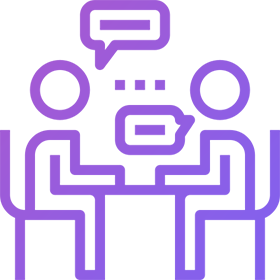
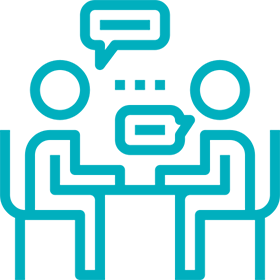
update data dan script

diff --git a/index.html b/index.html
@@ -167,12 +167,12 @@ https://templatemo.com/tm-535-softy-pinko
             <div class="row">
                 <div class="col-lg-12">
                     <div class="center-heading">
-                        <h2 class="section-title">Blog Entries</h2>
+                        <h2 class="section-title">My Project</h2>
                     </div>
                 </div>
                 <div class="offset-lg-3 col-lg-6">
                     <div class="center-text">
-                        <p>Integer molestie aliquam gravida. Nullam nec arcu finibus, imperdiet nulla vitae, placerat nibh. Cras maximus venenatis molestie.</p>
+                        <p>Berikut project yang telah saya kerjakan</p>
                     </div>
                 </div>
             </div>
@@ -182,48 +182,46 @@ https://templatemo.com/tm-535-softy-pinko
                 <div class="col-lg-4 col-md-6 col-sm-12">
                     <div class="blog-post-thumb">
                         <div class="img">
-                            <img src="assets/images/blog-item-01.png" alt="">
+                            <img src="assets/images/desajattibaru.png" alt="" width="370px" height="220px">
                         </div>
                         <div class="blog-content">
                             <h3>
-                                <a href="#">Vivamus ac vehicula dui</a>
+                                <a href="#">Website Desa Jati Baru</a>
                             </h3>
                             <div class="text">
-                               Cras aliquet ligula dui, vitae fermentum velit tincidunt id. Praesent eu finibus nunc. Nulla in sagittis eros. Aliquam egestas augue.
+                              Ini merupakan website desa jati baru menggunakan wordpress, pada website ini memuat berita-berita terbaru desa, profile desa, visi dan misi desa jati baru, struktur kepengurusan serta kontak pemerintahan desa jati baru
                             </div>
-                            <a href="#" class="main-button">Read More</a>
                         </div>
                     </div>
                 </div>
                 <div class="col-lg-4 col-md-6 col-sm-12">
                     <div class="blog-post-thumb">
                         <div class="img">
-                            <img src="assets/images/blog-item-02.png" alt="">
+                            <img src="assets/images/desapantai.png" alt="" width="370px" height="220px">
                         </div>
                         <div class="blog-content">
                             <h3>
-                                <a href="#">Phasellus convallis augue</a>
+                                <a href="#">Website Desa Pantai</a>
                             </h3>
                             <div class="text">
-                                Aliquam commodo ornare nisl, et scelerisque nisl dignissim ac. Vestibulum finibus urna ut velit venenatis, vel ultrices sapien mattis.
+                                Ini merupakan website desa pantai kecamatan kuantan mudik kabupaten kuantan singingi menggunakan worpress, pada website ini memuat profile desa, geografis desa, pemerintahan desa, potensi desa, kegiatan, anggaran serta kontak pemerintahan desa
                             </div>
-                            <a href="#" class="main-button">Read More</a>
                         </div>
                     </div>
                 </div>
                 <div class="col-lg-4 col-md-6 col-sm-12">
                     <div class="blog-post-thumb">
                         <div class="img">
-                            <img src="assets/images/blog-item-03.png" alt="">
+                            <img src="assets/images/sims.png" alt="" width="370px" height="220px">
                         </div>
                         <div class="blog-content">
                             <h3>
-                                <a href="#">Nam gravida purus non</a>
+                                <a href="#">Sistem Informasi Surat Menyurat</a>
                             </h3>
                             <div class="text">
-                                Maecenas eu erat vitae dui convallis consequat vel gravida nulla. Vestibulum finibus euismod odio, ut tempus enim varius eu.
+                               Sistem Informasi surat menyurat ini merupakan sistem Balai Besar Konservasi SDA Riau, pada sistem ini memuat data surat masuk, disposisi surat masuk, surat keluar, data surat keluar serta cetak surat keluar ke dalam file word
                             </div>
-                            <a href="#" class="main-button">Read More</a>
+                           
                         </div>
                     </div>
                 </div>
@@ -244,7 +242,7 @@ https://templatemo.com/tm-535-softy-pinko
                 </div>
                 <div class="offset-lg-3 col-lg-6">
                     <div class="center-text">
-                        <p>Maecenas pellentesque ante faucibus lectus vulputate sollicitudin. Cras feugiat hendrerit semper.</p>
+                        <p>Kami Pemeberi Solusi Pada Keluhan Anda</p>
                     </div>
                 </div>
             </div>

diff --git a/assets/css/templatemo-softy-pinko.css b/assets/css/templatemo-softy-pinko.css
@@ -113,12 +113,12 @@ body {
 }
 
 ::selection {
-  background: #ff589e;
+  background: #00afbe;
   color: #fff;
 }
 
 ::-moz-selection {
-  background: #ff589e;
+  background: #00afbe;
   color: #fff;
 }
 
@@ -314,7 +314,7 @@ a.main-button-slider {
   font-size: 13px;
   border-radius: 20px;
   padding: 12px 20px;
-  background-color: #ff589e;
+  background-color: #00afbe;
   text-transform: uppercase;
   color: #fff;
   letter-spacing: 0.25px;
@@ -325,14 +325,14 @@ a.main-button-slider {
 }
 
 a.main-button-slider:hover {
-  background-color: #8261ee;
+  background-color: #00afbe;
 }
 
 a.main-button {
   font-size: 13px;
   border-radius: 20px;
   padding: 12px 20px;
-  background-color: #8261ee;
+  background-color: #00afbe;
   text-transform: uppercase;
   color: #fff;
   letter-spacing: 0.25px;
@@ -343,7 +343,7 @@ a.main-button {
 }
 
 a.main-button:hover {
-  background-color: #ff589e;
+  background-color: #00afbe;
 }
 
 button.main-button {
@@ -353,7 +353,7 @@ button.main-button {
   font-size: 13px;
   border-radius: 20px;
   padding: 12px 20px;
-  background-color: #8261ee;
+  background-color: #00afbe;
   text-transform: uppercase;
   color: #fff;
   letter-spacing: 0.25px;
@@ -364,7 +364,7 @@ button.main-button {
 }
 
 button.main-button:hover {
-  background-color: #ff589e;
+  background-color: #00afbe;
 }
 
 
@@ -448,7 +448,7 @@ header
 }
 
 .header-area .main-nav .nav li a:hover {
-  color: #ff589e;
+  color: #00afbe;
 }
 
 .header-area .main-nav .menu-trigger {
@@ -560,7 +560,7 @@ header
 }
 
 .header-area.header-sticky .nav li a.active {
-  color: #ff589e;
+  color: #00afbe;
 }
 
 @media (max-width: 1200px) {
@@ -769,7 +769,7 @@ features
 }
 
 .features-small-item:hover .icon {
-  background-color: #ff589e;
+  background-color: #00afbe;
 }
 
 .features-small-item .icon {
@@ -783,7 +783,7 @@ features
   margin: auto;
   position: relative;
   margin-bottom: 30px;
-  background: #8261ee;
+  background: #07dee1;
   -webkit-border-radius: 50%;
   -moz-border-radius: 50%;
   border-radius: 50%;
@@ -1175,7 +1175,7 @@ team
   display: block;
   font-weight: 400;
   font-size: 15px;
-  color: #ff589e;
+  color: #00afbe;
   letter-spacing: 0.25px;
 }
 
@@ -1214,7 +1214,7 @@ pricing
 }
 
 .pricing-item.active .pricing-body .price-wrapper {
-  background-color: #ff589e;
+  background-color: #00afbe;
 }
 
 .pricing-item.active .pricing-body .price-wrapper .currency {
@@ -1351,7 +1351,7 @@ blog
 }
 
 .blog-post-thumb h3 a:hover {
-  color: #ff589e;
+  color: #00afbe;
 }
 
 .blog-post-thumb .text {
@@ -1442,7 +1442,7 @@ footer
 --------------------------------------------- 
 */
 footer {
-  background-image: linear-gradient(127deg, #a759d1 0%, #8261ee 91%);
+  background-image: linear-gradient(127deg, #00afbe 0%, #07dee1 91%);
   padding-top: 30px;
 }
 
@@ -1458,8 +1458,8 @@ footer .social li {
 }
 
 footer .social li a {
-  color: #9d5bd9;
-   text-align: center;
+  color: #07dee1;
+  text-align: center;
   background-color: #fff;
   width: 36px;
   height: 36px;
@@ -1474,7 +1474,7 @@ footer .social li a {
 }
 
 footer .social li a:hover {
-  background-color: #ff589e;
+  background-color: #00afbe;
   color: #fff;
 }
 
@@ -1510,7 +1510,7 @@ preloader
 */
 #preloader {
   overflow: hidden;
-  background-image: linear-gradient(135deg, #a759d1 0%, #8261ee 100%);
+  background-image: linear-gradient(135deg, #00afbe 0%, #07dee1 100%);
   left: 0;
   right: 0;
   top: 0;
